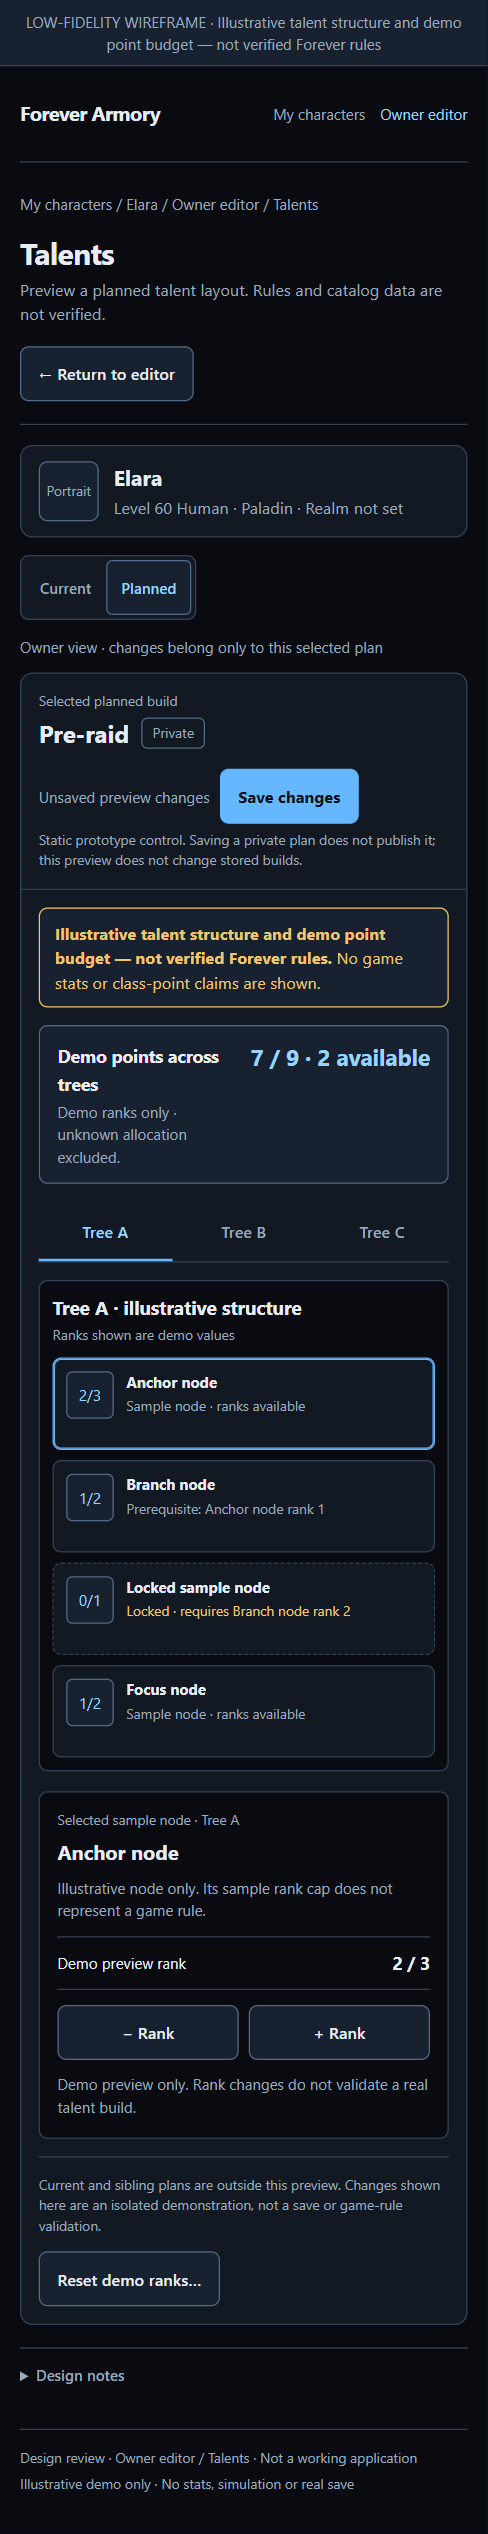
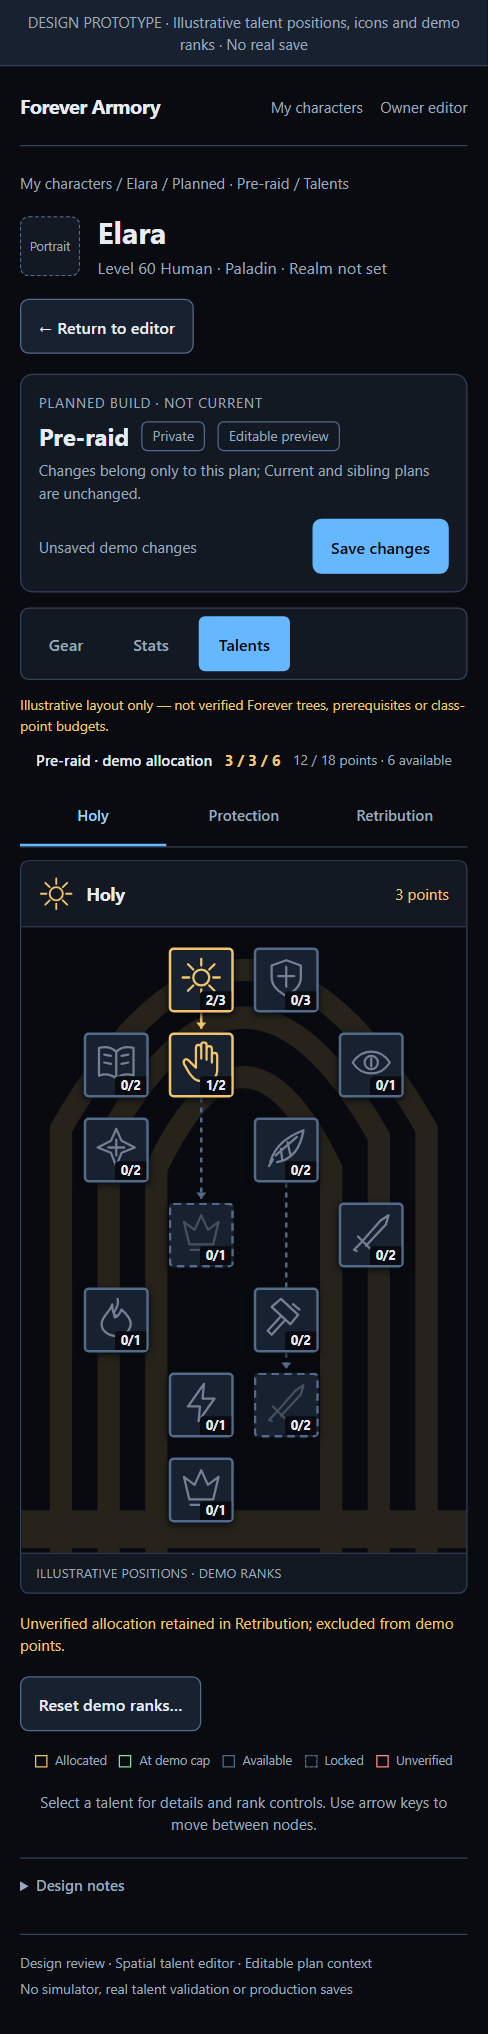
docs: refresh talent wireframe captures and record Phase 1 sign-off
Regenerate the narrow-screen talent editor from the current HTML for the Holy, Protection and Retribution tabs, and remove the stale generic Tree A/B/C captures. Update the roadmap description to the three-class-tree design and 18-point demo budget, and mark the specification and contract approved on 2026-10-25.

diff --git a/docs/plans/2026-10-20-forever-armory-roadmap.md b/docs/plans/2026-10-20-forever-armory-roadmap.md
@@ -4,9 +4,8 @@ Date: 2026-10-20
 Status: Proposed delivery sequence and visual-design brief. Not an approved implementation plan or authorization to change the application.
 
 Progress (2026-10-25): the [revised specification](../superpowers/specs/2026-10-01-forever-armory-design.md)
-and the [upstream data and validation contract](../forever-upstream-data-contract.md) are written.
-Five of the seven wireframes are accepted; the item picker and talent editor still await visual
-review. Phase 1 exit is not yet met.
+and the [upstream data and validation contract](../forever-upstream-data-contract.md) are approved,
+and all seven wireframes are accepted. Phase 1 exit is met; Phase 2 planning is next.
 
 ## Goal and starting point
 
@@ -199,28 +198,30 @@ The Recovery desktop/mobile captures in the table are refreshed. Additional tab 
 
 ### Final wireframe pair — item/enchant picker and talent editor
 
-The user approved the screen briefs: “yes do it.” These drafts follow the accepted dark armory/card language, tabbed navigation and collapsed Design notes. Both show Elara's private Planned / Pre-raid context and await visual review; this approval does not authorize production editing or verified game rules.
+The user approved the screen briefs: “yes do it.” These drafts follow the accepted dark armory/card language, tabbed navigation and collapsed Design notes. Both show Elara's private Planned / Pre-raid context. They were accepted on 2026-10-25; that sign-off covers the visual direction only, not production editing or verified game rules.
 
 | Screen | Standalone HTML | Desktop capture | Mobile capture | Browser preview |
 | --- | --- | --- | --- | --- |
 | Item/enchant picker — Items | [HTML](../wireframes/forever-armory-item-picker.html) | [Desktop](../wireframes/forever-armory-item-picker-desktop.png) | [Mobile](../wireframes/forever-armory-item-picker-mobile.png) | [Preview](https://p.superdesign.dev/draft/50ce446a-d1eb-43e0-8097-51e76aaa9875) |
-| Talent editor — Tree A | [HTML](../wireframes/forever-armory-talent-editor.html) | [Desktop](../wireframes/forever-armory-talent-editor-desktop.png) | [Mobile](../wireframes/forever-armory-talent-editor-mobile.png) | [Preview](https://p.superdesign.dev/draft/718fb8c7-e29b-4999-b208-8beaf5a41ae0) |
+| Talent editor — Holy | [HTML](../wireframes/forever-armory-talent-editor.html) | [Desktop](../wireframes/forever-armory-talent-editor-desktop.png) | [Mobile](../wireframes/forever-armory-talent-editor-mobile.png) | [Preview](https://p.superdesign.dev/draft/718fb8c7-e29b-4999-b208-8beaf5a41ae0) |
 
 Additional tab captures:
 
 - Enchants: [desktop](../wireframes/forever-armory-item-picker-enchants-desktop.png), [mobile](../wireframes/forever-armory-item-picker-enchants-mobile.png).
-- Tree B: [desktop](../wireframes/forever-armory-talent-editor-b-desktop.png), [mobile](../wireframes/forever-armory-talent-editor-b-mobile.png).
-- Tree C: [desktop](../wireframes/forever-armory-talent-editor-c-desktop.png), [mobile](../wireframes/forever-armory-talent-editor-c-mobile.png).
+- Protection tab on narrow screens: [mobile](../wireframes/forever-armory-talent-editor-protection-mobile.png).
+- Retribution tab on narrow screens: [mobile](../wireframes/forever-armory-talent-editor-retribution-mobile.png).
 
-The picker includes working Items/Enchants tabs, search, source/demo-compatibility filters, result selection and a no-results/reset state. Selected details distinguish item identity from enchant effects and required character level from item level. Synthetic fit/incompatible/unknown examples are explicitly unverified; incompatible and unknown new choices cannot enable Apply. An existing unknown Head choice is retained and explained. Per-tab selections survive navigation, hidden-tab rendering does not override the active action state, and filtered-out selections are not actionable. Apply and return are illustrative affordances, not equipment mutation or a save.
+The picker includes working Items/Enchants tabs, search, source/demo-compatibility filters, result selection and a no-results/reset state. Selected details distinguish item identity from enchant effects and required character level from item level; the level row is an explicitly labelled placeholder because the pinned catalog carries no required character level. Synthetic fit/incompatible/unknown examples are explicitly unverified; incompatible and unknown new choices cannot enable Apply. An existing unknown Head choice is retained and explained. Per-tab selections survive navigation, hidden-tab rendering does not override the active action state, and filtered-out selections are not actionable. Apply and return are illustrative affordances, not equipment mutation or a save.
 
-The talent editor shows one neutral sample tree at a time, with sticky demo-point accounting, selected-node details, rank controls and synthetic prerequisite/cap/budget feedback. Its 9-point demo budget is not a real level-60/class budget. Tree selections and ranks persist when switching; unmet prerequisites retain and flag existing preview ranks rather than removing them. A separate unknown allocation stays flagged and outside the synthetic tally. Reset requires confirmation, cancel retains ranks, and confirmed reset clears only supported Pre-raid demo ranks while preserving the unknown fixture and current tree. Current/sibling builds and storage are outside this prototype. No TBC tree, game statistic or real Forever validation is used.
+The talent editor shows three class trees side by side on desktop and one at a time through tabs on narrow screens, with sticky demo-point accounting, selected-node details, popover rank controls and synthetic prerequisite/cap/budget feedback. Its 18-point demo budget is not a real level-60/class budget. Tree selections and ranks persist when switching; unmet prerequisites retain and flag existing preview ranks rather than removing them. A separate unknown allocation stays flagged and outside the synthetic tally. Reset requires confirmation, cancel retains ranks, and confirmed reset clears only supported Pre-raid demo ranks while preserving the unknown fixture and current tree. Current/sibling builds and storage are outside this prototype. No TBC tree, game statistic or real Forever validation is used.
 
-Verification: rendered all five tabs locally and in imported previews at 1440px and 390px widths, with exactly one panel visible and no horizontal page overflow. Ten full-page captures are linked above. Local browser exercises covered picker fit/incompatible/unknown states, combined filters, empty results/reset, per-tab selection and keyboard navigation; talent node selection, prerequisite lock/unlock, retained incompatible allocation, rank cap, cross-tree demo budget and confirmed/canceled reset. The mobile point summary remained visible at the rank controls. Keyboard focus showed a 3px outline; no local browser script errors were reported.
+Verification: rendered all five tabs locally and in imported previews at 1440px and 390px widths, with exactly one panel visible and no horizontal page overflow. Eight full-page captures are linked above, all regenerated from the current HTML on 2026-10-25 (the earlier generic Tree A/B/C captures were removed when the editor moved to the three class trees). Local browser exercises covered picker fit/incompatible/unknown states, combined filters, empty results/reset, per-tab selection and keyboard navigation; talent node selection, prerequisite lock/unlock, retained incompatible allocation, rank cap, cross-tree demo budget and confirmed/canceled reset. The mobile point summary remained visible at the rank controls. Keyboard focus showed a 3px outline; no local browser script errors were reported.
 
 Imported-preview checks also exercised picker empty/reset/unknown states and keyboard tabs, plus talent rank editing, canceled reset and keyboard tree switching. Both directly authored drafts were imported without model-generation credits and retrieved at version 1; remote HTML exactly matched the local files. Only the two illustrative HTML files were uploaded, without credentials, game artwork or real character exports. No production application code or accepted wireframe changed.
 
-This supplies draft artifacts for the last two screen types in the initial wireframe set. Their visual review, the revised written specification and the upstream data/validation contract remain separate gates; the Phase 1 exit is not implied by having these mockups.
+The last two screen types were accepted on 2026-10-25, alongside the revised specification and the
+upstream data/validation contract. Phase 1 exit is met; Phase 2 planning follows the planning
+boundaries below.
 
 ## Planning and approval boundaries
 

diff --git a/docs/superpowers/specs/2026-10-01-forever-armory-design.md b/docs/superpowers/specs/2026-10-01-forever-armory-design.md
@@ -2,7 +2,7 @@
 
 Date: 2026-10-01
 Revised: 2026-10-25
-Status: Design approved in conversation; revised specification awaiting user review.
+Status: Design approved in conversation; revised specification approved 2026-10-25.
 
 ## Revision note (2026-10-25)
 
@@ -25,7 +25,7 @@ assumptions. This revision keeps the approved product goal and exclusions and re
 - **Native WoWSims interchange** is approved as a gated entry route, inbound only, implemented
   after the manual editor.
 - **Delivery shape.** Work is sequenced by the [roadmap](../../plans/2026-10-20-forever-armory-roadmap.md).
-  Five wireframes are accepted; the item picker and talent editor await visual review.
+  All seven wireframes are accepted as of 2026-10-25.
 
 This document remains a design artifact, not authorization to implement.
 

diff --git a/docs/forever-upstream-data-contract.md b/docs/forever-upstream-data-contract.md
@@ -1,6 +1,7 @@
 # Forever upstream data and validation contract
 
 Date: 2026-10-25
+Approved: 2026-10-25
 Status: Phase 1 design artifact. It binds the manual-editor and hosted-armory implementation
 plans; it does not authorize implementation, and it is not legal advice.
 
